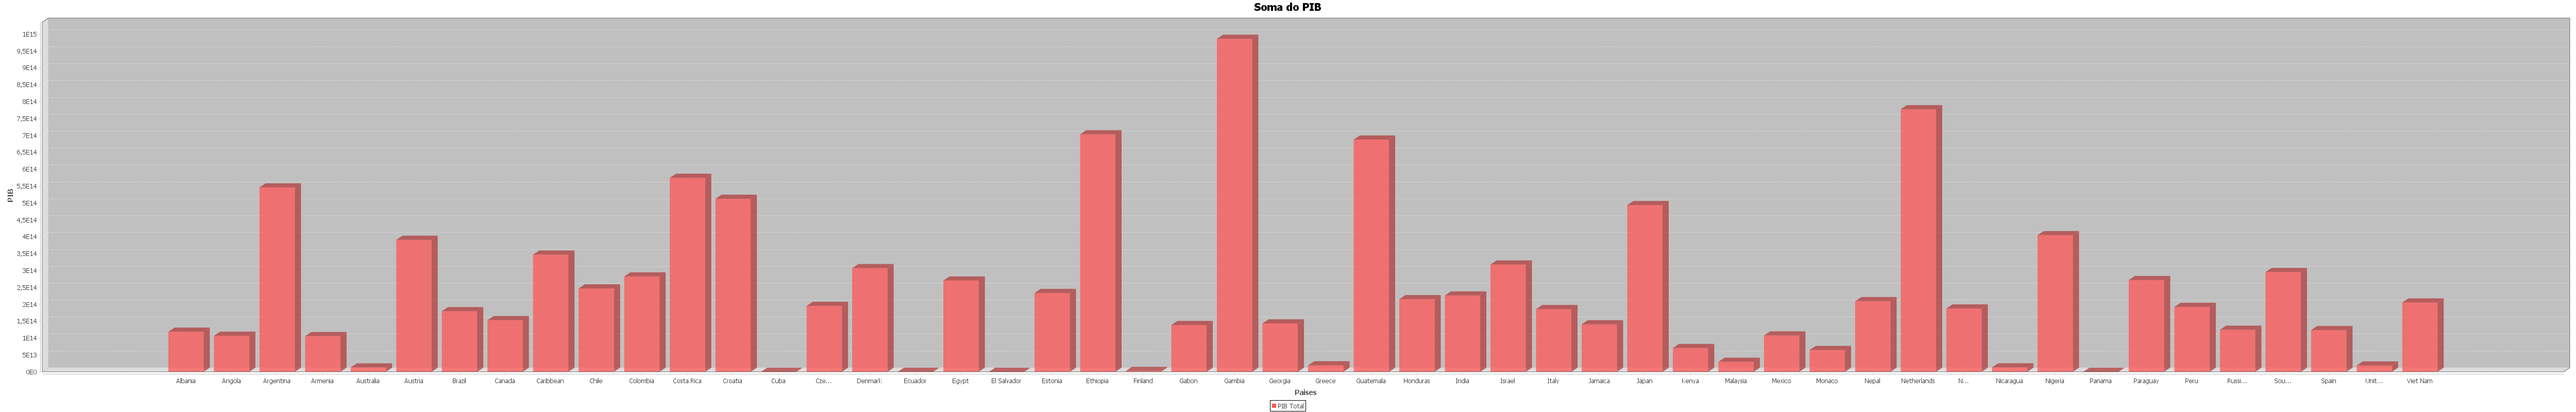
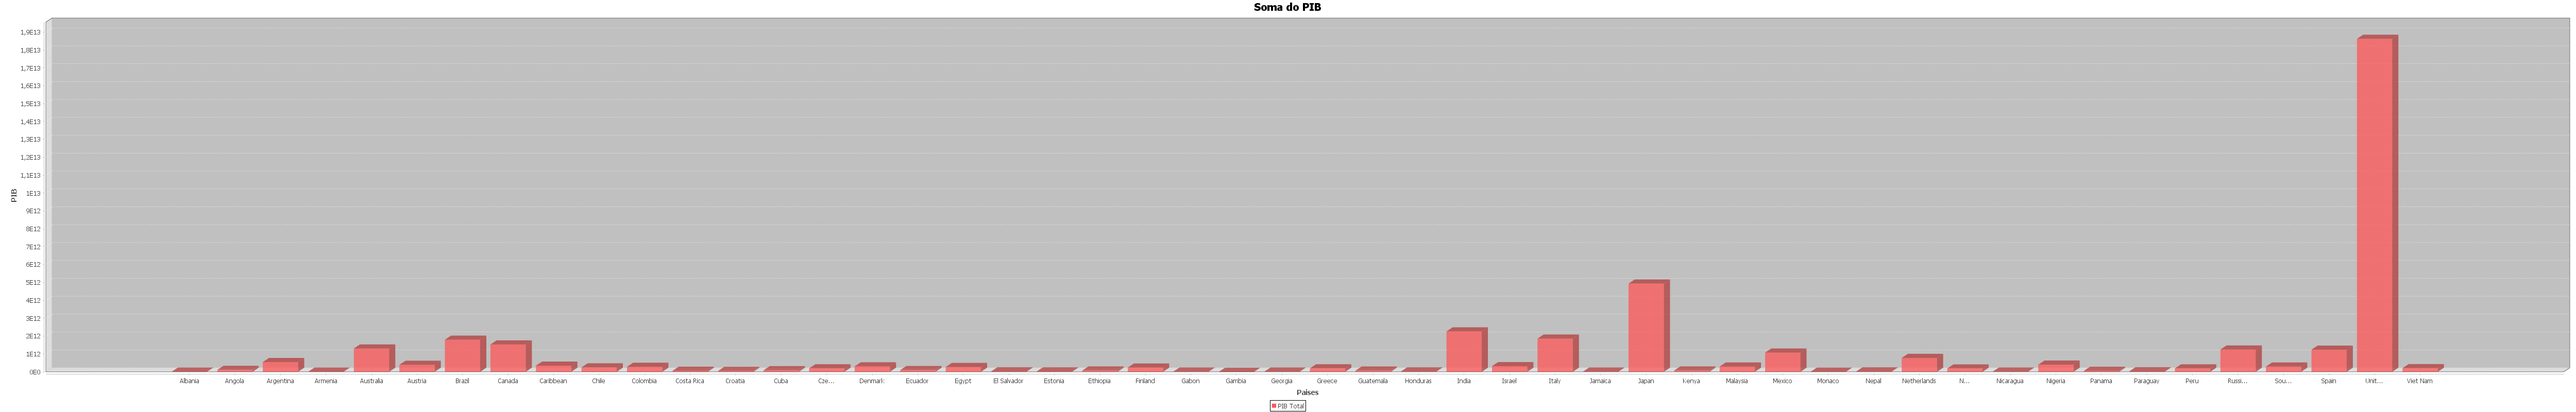
21/05
PIB

Changed region(s): [[0.0624, 0.0625, 0.9672, 0.9375], [0.0, 0.0625, 0.0312, 0.875], [0.624, 0.4688, 0.6552, 0.6875]]

diff --git a/src/UI/ArrayListShow.java b/src/UI/ArrayListShow.java
@@ -32,7 +32,7 @@ public class ArrayListShow extends javax.swing.JFrame {
     public void ArrayParaTabela(){
         c1.lerarquivocsv();
         //Cria objeto vetor Data
-        Object Data[] = new Object[3];
+        Object Data[] = new Object[4];
         //Cria o modelo da tabela
         DefaultTableModel model = (DefaultTableModel) jTable1.getModel();
         for(i=0; i<ListaCSV.size();i++){
@@ -43,6 +43,8 @@ public class ArrayListShow extends javax.swing.JFrame {
             Data[1] = addTabela[1];
             //Adiciona a coluna 3 o PIB
             Data[2] = nf.format(Double.parseDouble(ListaCSVAuxiliar.get(i)));
+            // Adiciona o Ano a coluna 4
+            Data[3] = addTabela[3];
             //Coloca na tabela
             model.addRow(Data);
         }
@@ -74,11 +76,11 @@ public class ArrayListShow extends javax.swing.JFrame {
 
             },
             new String [] {
-                "País", "Moeda Utilizado Dados", "Produto Interno Bruto"
+                "País", "Moeda Utilizado Dados", "Produto Interno Bruto", "Ano"
             }
         ) {
             boolean[] canEdit = new boolean [] {
-                false, false, false
+                false, false, false, false
             };
 
             public boolean isCellEditable(int rowIndex, int columnIndex) {
@@ -91,6 +93,7 @@ public class ArrayListShow extends javax.swing.JFrame {
             jTable1.getColumnModel().getColumn(0).setResizable(false);
             jTable1.getColumnModel().getColumn(1).setResizable(false);
             jTable1.getColumnModel().getColumn(2).setResizable(false);
+            jTable1.getColumnModel().getColumn(3).setResizable(false);
         }
 
         javax.swing.GroupLayout jPanel1Layout = new javax.swing.GroupLayout(jPanel1);

diff --git a/src/Classes/Ler_Arquivo.java b/src/Classes/Ler_Arquivo.java
@@ -29,7 +29,7 @@ public class Ler_Arquivo {
     public void lerarquivocsv(){
         //abre o arquivo no mesmo diretorio/cria o arquivo
         ListaCSV.clear();
-        File arquivoCSV = new File(getClass().getResource("PIB.csv").getFile());
+        File arquivoCSV = new File(getClass().getResource("PIB3.csv").getFile());
         //Tenta ler o arquivo e capturar algum erro
         try{
             //cria scanner para ler arquivo
